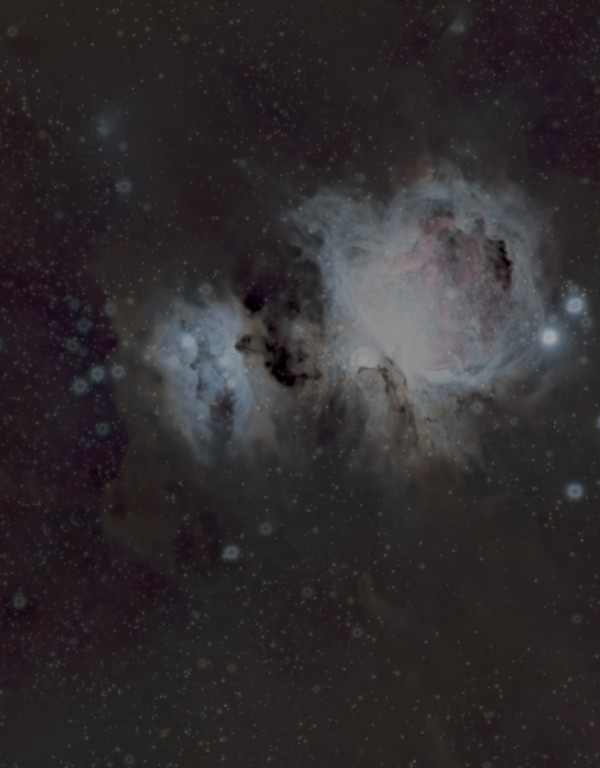
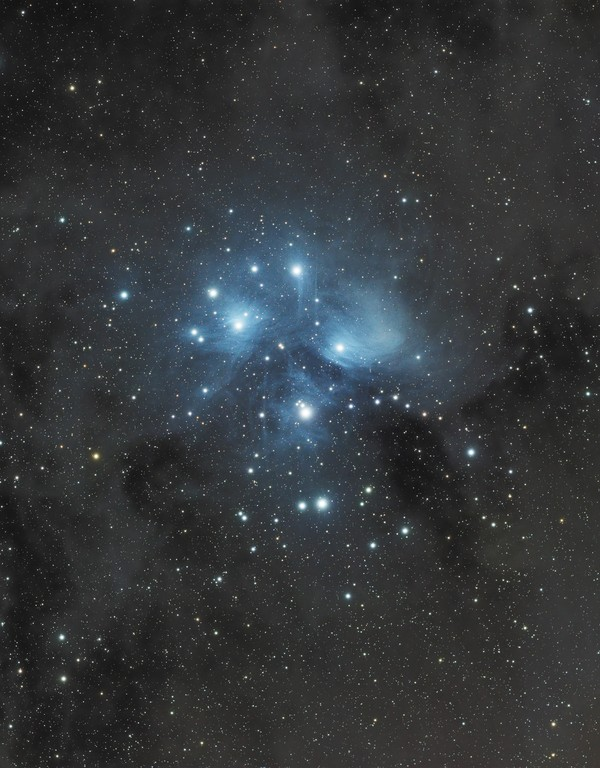
docs: rebrand README as a product, add USAGE tutorial, M45 LazyFlight card
Rewrite README.md as a standalone LazyAstroPhotoSuite product doc (drop the
port framing) and add USAGE.md — a full tool-by-tool tutorial. Surface the
website kstevica.com/laps and contact kstevica@gmail.com in the README,
the tutorial, and the launcher footer. Swap the LazyFlight launcher card
to an M45 (Pleiades) image.

diff --git a/lazystretch/gui/shell.py b/lazystretch/gui/shell.py
@@ -293,7 +293,8 @@ class LauncherPage(QWidget):
         # credit footer, bottom-right
         foot = QHBoxLayout()
         foot.addStretch(1)
-        footer = QLabel(f"LazyAstroPhotoSuite by Stevica Kuharski   ·   v{_VERSION}   ·   @kstevica")
+        footer = QLabel(f"LazyAstroPhotoSuite  v{_VERSION}   ·   kstevica.com/laps   "
+                        f"·   kstevica@gmail.com")
         footer.setStyleSheet(
             "color: rgba(196,206,228,0.60); background: transparent; font-size: 12px;")
         foot.addWidget(footer)

diff --git a/README.md b/README.md
@@ -1,114 +1,96 @@
-# LazyStretchPy
+# LazyAstroPhotoSuite (LAPS)
 
-A standalone, native-desktop **Python** port of the PixInsight **LazyStretch** script — the same
-statistics-driven, object-aware stretching pipeline, running without PixInsight. No web version, no web
-views. Ships as a pip package (primary) and a signed macOS `.app` (secondary).
+**An end-to-end astrophotography workflow in one native desktop app — from raw subs to a
+finished image, and beyond.** Stack your lights into a clean master, stretch it automatically
+with an object-aware pipeline, hand-finish it in a Lightroom-style darkroom, turn the still
+into a 3-D fly-through video, and process Sun & Moon lucky-imaging bursts — all offline, no
+subscriptions.
 
-> **Status:** P0–P5 complete — headless numerical core, image I/O, target identification, the full
-> **AAA-free pipeline** (incl. masked step variants), a native PySide6 desktop GUI, **and external-tool
-> integration** (StarNet, GraXpert, classical deconvolution; SPCC-lite scaffolded). Runs end-to-end on real
-> masters via CLI *and* GUI, using the wall tools when installed and degrading gracefully when not.
-> **Synced to PI v1.4.1** — the full **P7 catch-up is done** (Chroma NR, dark-lane gradient, Remove stars,
-> `starsAdj`, dehaze-gradient, curated recipes, **Deepen second-pass**, and the **Advisor / Analyze-Frame**),
-> all wired into the pipeline/CLI/GUI, adversarially verified, and tested (117 passing). The Python pipeline
-> now tracks v1.4.1 feature parity. **P1 (golden calibration) is underway** — a harness (`calibration/`)
-> compares the port against PixInsight's reference renders; first fix: the **HDR core** now reveals nebula-core
-> structure (M42 Trapezium) instead of flattening it. Remaining: more P1 steps (saturation/LHE/noise),
-> **SPCC-lite**, **P6** packaging. See **[PLAN.md](PLAN.md)**.
+- **Website:** [kstevica.com/laps](https://kstevica.com/laps)
+- **Contact:** kstevica@gmail.com
+- Native **macOS** and **Windows** apps
 
-## Quick start (dev)
+---
+
+## The suite
+
+LAPS is a launcher that frames the whole pipeline — **Build the master → Process the image**,
+with **Sun & Moon** and **Fly-through** alongside:
+
+| Tool | What it does |
+|------|--------------|
+| **LazyStack** | Calibrate, register and integrate a folder of subs into a clean master (edge-crop, coverage map, per-pixel noise/SNR map, meteor detection). |
+| **LazyStretch** | Automated, statistics-driven, **object-aware** stretching + finishing for deep-sky masters — auto-classifies the target, picks sensible defaults, and keeps every value live and adjustable. |
+| **LazyDevelop** | Hand-finish a stretched master: curves, levels, colour, selective colour, wavelet clarity, HDR, crop (drag to refine), deconvolution, star reduction, **star diffraction spikes**, and one-click XTerminator (BlurX / StarX / NoiseX) with graceful open-source fallbacks. |
+| **LazyFlight** | Turn a finished still into a faithful 3-D **fly-through video** — parallax + volumetric glow, stars that fly toward the camera, per-star spike/streak control, up to 3840-px and 150 Mbps. |
+| **LazyMoonSun** | Lucky-imaging burst stacking + finishing for the **Sun and Moon** (global + multi-point alignment, auto-classify, Sun/Moon presets). |
+
+Everything is designed around one idea: **get you to a great result with minimal effort**,
+while keeping every knob within reach when you want control.
+
+---
+
+## Install
+
+Download the ready-to-run app from **[kstevica.com/laps](https://kstevica.com/laps)**:
+
+- **macOS** — `LazyAstroPhotoSuite.app` (unzip, drag to Applications, open).
+- **Windows** — `LazyAstroPhotoSuite.exe` (unzip the folder, run the `.exe`).
+
+No Python or dependencies to install — the app is self-contained.
+
+> New to it? Start with the **[Usage & Tutorial guide](USAGE.md)**.
+
+---
+
+## Optional: external AI tools
+
+LAPS works fully on its own with built-in, portable algorithms. If you already use any of
+these, LAPS **auto-detects** them and prefers them; otherwise it degrades gracefully:
+
+| Tool | Used for | How LAPS finds it |
+|------|----------|-------------------|
+| **RC-Astro CLI** (`rc-astro`) | BlurXTerminator, StarXTerminator, NoiseXTerminator | on `PATH`, or `LAZYSTRETCH_RCASTRO` |
+| **StarNet++ / StarNet2** | star removal / reduction | `--starnet-path`, or `LAZYSTRETCH_STARNET` |
+| **GraXpert** | background / gradient + denoise | `--graxpert-path`, or `LAZYSTRETCH_GRAXPERT` |
+| **ASTAP** | plate solving (Identify Target) | `--astap-path` |
+
+None are bundled or required. Without them, LazyDevelop's BX / NX / SX fall back to
+Richardson-Lucy deconvolution, multiscale-median denoise, and morphological star reduction.
+For video export, LAPS bundles its own **ffmpeg**, so LazyFlight works out of the box.
+
+---
+
+## Command line (optional)
+
+The stretch pipeline is also scriptable for batch work:
 
 ```bash
-python3 -m venv .venv
-.venv/bin/python -m pip install -e ".[dev,gui]"
-.venv/bin/python -m pytest -q          # 93 passing, 1 skipped (PI-telemetry placeholder)
-lazystretch-gui                        # launch the desktop app
-lazystretch --tools                    # show which external tools are detected
+# process an RGB / OSC master; class chosen automatically or with --class
+lazystretch master.fits --class galaxy --output result.tif
+
+# also save the full run log next to the result
+lazystretch master.fits --log-file run.log
 ```
 
-## External tools (optional — the "AI wall")
+Run `lazystretch --help` for the full flag list.
 
-None are bundled. LazyStretch finds them by **explicit path → env var → PATH**, and degrades gracefully
-when absent (GraXpert→MMT noise reduction, StarNet→skip, SPCC→BN+CC).
+---
 
-| Tool | Provides | Point LazyStretch at it |
-|---|---|---|
-| **StarNet++ / StarNet2** | star reduction, star-protected saturation | `--starnet-path /path/to/starnet++` or `export LAZYSTRETCH_STARNET=…` |
-| **GraXpert** | noise reduction, background/gradient (GC) | `--graxpert-path /path/to/graxpert` or `export LAZYSTRETCH_GRAXPERT=…` |
-| **ASTAP** | plate solving (`--identify`) | `--astap-path /path/to/astap` |
-| classical **Richardson–Lucy** | weak BlurX substitute (no install) | `--deconv` (off by default) |
-| **SPCC-lite** | Gaia color calibration | `pip install ".[spcc]"` — scaffolded; currently defers to BN+CC |
-
-### CLI — run the pipeline on a master
+## Build from source (developers)
 
 ```bash
-# RGB / OSC master, class chosen manually
-lazystretch master.fits --class galaxy -o out.tif
-
-# auto-identify the target (existing WCS, or ASTAP if installed), then process
-lazystretch osc.fits --identify -o out.tif
-
-# mono narrowband SHO/HOO/HOS combine from three masters
-lazystretch --ha Ha.fits --oiii OIII.fits --sii SII.fits --palette "SHO (Hubble)" \
-            --class emission -o sho.tif
-
-# fast preview (the deterministic subset — AI wall off), tweak the dials
-lazystretch master.fits --class emission --preview --sat 0.1 --bright 0.03 -o preview.png
+python -m pip install -e ".[gui,video,bg,tools]"
+python -m lazystretch.gui.app          # launch the suite
+python -m pytest -q                    # run the test suite
 ```
 
-### Library — headless core
+Packaging the standalone macOS `.app` / Windows `.exe` is documented in
+[`build/README.md`](build/README.md) (PyInstaller + a GitHub Actions Windows workflow).
 
-```python
-import numpy as np
-from lazystretch import get_data, resolve_effective, apply_auto_stretch
-from lazystretch.io import load_image, save_image
-from lazystretch.objects import Parameters
-from lazystretch.pipeline.runcore import run_pipeline
+---
 
-img = load_image("master.fits").data                 # float [0,1], (H,W) or (H,W,3)
-result = run_pipeline(img, Parameters.for_object("galaxy"), preview=True)
-save_image("out.tif", result.image)
-```
+## About
 
-## What runs (the AAA-free "Preview" pipeline)
-
-Crop → background/gradient (ABE poly / GC-fallback) → colour calibration (BN+CC) → auto-stretch →
-SCNR → HDR core → background level (+ adaptive floor) → contrast → saturation → cast/emission/dehaze →
-gradient cleanup → local contrast. The four **wall** steps (BlurX / NoiseX / StarX / SPCC) are
-feature-detected and skipped when absent (NoiseX falls back to the portable MMT); they are integrated in
-P5. Masked step variants are a P3 follow-up (they fall back to the global variant with a logged note).
-
-## Layout
-
-```
-LazyStretchPy/
-├── PLAN.md                     ← the architecture & porting plan (start here)
-├── README.md                   ← this file
-└── reference/
-    └── pixinsight/             ← READ-ONLY source of truth (do not edit)
-        ├── LazyStretch.js      ← PI LazyStretch v1.2.1, 3542 lines
-        ├── README.md  PLAN.md  ← PI-side docs, copied verbatim
-        └── SOURCE.md           ← exact version + SHA-1 + isolation date
-```
-
-## The core idea
-
-The Python port keeps the **PixInsight `.js` as the source of truth** and is engineered to track it with
-minimal effort as it keeps evolving. The seam is drawn along *change frequency*, not features:
-
-- **Tunable numbers** (class profiles, thresholds, slider gains, palettes) live in **one shared JSON** that
-  both the `.js` and Python read — so a number tweak propagates with zero re-porting.
-- A **parity map** links each PI symbol to its Python module + the PI SHA it was last synced against.
-- A **golden/regression harness** diffs Python against telemetry exported from PI on the sample images.
-- A **per-release update checklist** turns "PI changed" into a mechanical procedure.
-
-See PLAN.md §9 for the full sync strategy and §10 for the phased roadmap.
-
-## Updating to a new PI version (short form)
-
-1. Drop the new `LazyStretch.js` into `reference/pixinsight/` and update `SOURCE.md` (version + SHA-1).
-2. `git diff` the `.js`; classify each hunk **DATA-ONLY** vs **STRUCTURAL**.
-3. DATA-ONLY → edit the shared JSON (no Python change). STRUCTURAL → edit the mapped Python module.
-4. Regenerate golden sidecars from PI, run `pytest tests/golden`, bump the synced SHA.
-
-(Full 12-step checklist in PLAN.md §9.4.)
+LazyAstroPhotoSuite is built by **Stevica Kuharski**.
+Questions, bugs, feature ideas → **kstevica@gmail.com** · **[kstevica.com/laps](https://kstevica.com/laps)**

diff --git a/USAGE.md b/USAGE.md
@@ -1,0 +1,150 @@
+# LazyAstroPhotoSuite — Usage & Tutorial
+
+A friendly walkthrough of the whole workflow, tool by tool. If you just want to get a
+finished image quickly: **LazyStack → LazyStretch → LazyDevelop**. Everything runs offline.
+
+- Website: [kstevica.com/laps](https://kstevica.com/laps) · Contact: **kstevica@gmail.com**
+
+---
+
+## Getting started
+
+Open **LazyAstroPhotoSuite**. You land on the **launcher**, which lays out the workflow as a
+pipeline:
+
+```
+Build the master           Process the image
+  LazyStack        →   LazyStretch → LazyDevelop → LazyFlight
+  LazyMoonSun  (Sun & Moon, alongside)
+```
+
+Click any card to open that tool. The **Tools ▸ Home** menu (or ⇧⌘H) always brings you back
+to the launcher.
+
+---
+
+## 1 · LazyStack — build a clean master
+
+Turn a folder of light subs into a single integrated master.
+
+1. Open **LazyStack**.
+2. **Pick your subs** (a folder of calibrated or raw lights). Add flats/darks/bias if you have
+   them.
+3. LazyStack **calibrates, registers and integrates** them, rejecting outliers (satellite
+   trails, cosmic rays). It also:
+   - **edge-crops** the stack border where frames don't all overlap,
+   - builds a **coverage map** (how many frames support each pixel),
+   - measures a **per-pixel noise / SNR map** (used later to protect faint signal),
+   - detects **meteors** as rejected transients (you can composite them back in later).
+4. **Save the master** (FITS/TIFF). That file is your input to LazyStretch.
+
+Tip: the noise/SNR and coverage companions travel with the master and make the stretch smarter
+about where to push detail vs. protect the background.
+
+---
+
+## 2 · LazyStretch — automatic, object-aware stretch
+
+The heart of the suite: a statistics-driven stretch that adapts to *what* you're imaging.
+
+1. Open **LazyStretch** → **Open master…** and pick your integrated master.
+2. **Identify the target** (optional): click **Identify Target** to plate-solve + name the
+   object, or just choose an **Object class** (galaxy, emission, reflection, cluster, Milky Way,
+   …). The class sets sensible defaults.
+3. Click **Preview** to see the auto-stretch on a fast, deterministic pass.
+4. Fine-tune on the **Setup / Adjust / Process** tabs — saturation, deepen, HDR core, black
+   point, dehaze, star handling, and more. Every value is live; the **Process** tab shows the
+   full computed pipeline and lets you pin overrides.
+5. Click **Execute** for the full-resolution result, then **Save Result…**.
+6. **Save log…** writes the whole run to a text file (or right-click the log). You can also
+   save a **recipe** and re-apply the same settings to another master.
+
+---
+
+## 3 · LazyDevelop — the darkroom
+
+Hand-finish a stretched master, Lightroom-style, with full history and masks.
+
+1. Open **LazyDevelop** → open a stretched image.
+2. Pick a tool from the **palette** on the left, grouped by category:
+   - **Geometry** — Crop, Edge crop, Rotate/flip. *(Crop: draw the box, then drag its
+     edges/corners to resize or drag inside to reposition.)*
+   - **Tone** — Curves, Levels, S-curve, Local contrast, HDR core, Highlight roll-off, Deepen.
+   - **Color** — Saturation, White balance, SCNR, Chroma NR, Background neutralize, Reduce cast,
+     Enhance emission.
+   - **Detail** — Mid-scale structure, Noise reduction, Reduce stars, Deconvolution, Halo Tamer.
+   - **XTerminator** — **BlurX / NoiseX / StarX**: uses the real RC-Astro tools if installed,
+     otherwise open-source equivalents.
+   - **Background** — Background extraction, Gradient cleanup, Dehaze, De-veil.
+   - **Studio** — Selective Color, Wavelet clarity, and **Star spikes**.
+3. Adjust the tool's controls (they preview live), optionally gate it through a **mask**
+   (luminance / highlights / star), then click **Apply** to add it as a history step.
+4. Use **Undo/Redo**, click any history step to edit it in place, and **Save recipe** to reuse
+   the whole edit stack.
+
+### Star spikes (Studio)
+
+Add diffraction spikes to stars:
+
+1. Open **Star spikes** — it **auto-detects** the brightest stars and marks them.
+2. **Click a star** to select it, **click empty canvas** to add one, **drag** to move,
+   **right-click** to remove.
+3. Set the number of spikes (3–32), rotation, thickness, intensity. The **Length** slider sets
+   the *selected* star's spike length (per star).
+4. Optional looks: **Chromatic fringe** (refractor-style colour toward the tips), **Arm-length
+   jitter**, and **Per-arm colour**. Click **Apply** to composite.
+
+---
+
+## 4 · LazyFlight — 3-D fly-through video
+
+Turn a finished still into a gentle fly-through.
+
+1. Open **LazyFlight** → open your finished image.
+2. Set the **pan points** (up to 5) the camera eases through, each with its own **zoom** and
+   **rotation** (Z / X / Y). Drag the numbered points on the image; the background moves within
+   the viewport as stars fly toward the camera.
+3. Choose **spikes/streaks**, star sizes, orientation (landscape/portrait), aspect and duration
+   (up to 120 s).
+4. Pick a **quality preset** or a manual **bitrate** (up to 150 Mbps) and **Render video**.
+5. **Save recipe** to reuse a camera move on another image.
+
+*Note: zoom **in** streams the stars toward you; zoom **out** makes them recede.*
+
+---
+
+## 5 · LazyMoonSun — Sun & Moon
+
+Lucky-imaging burst stacking + finishing for the Sun and Moon.
+
+1. Open **LazyMoonSun** → pick a **burst folder** (a run of frames).
+2. Choose a **Sun**, **Moon**, or **Neutral** base preset (it can also auto-classify).
+3. **Stack** — global + multi-point alignment picks and combines the sharpest detail, then
+   finishes it. Save the result.
+
+---
+
+## Optional: connect your AI tools
+
+LAPS auto-detects these if present and prefers them; otherwise it uses built-in fallbacks:
+
+- **RC-Astro CLI** (`rc-astro`) → BlurX / StarX / NoiseX. Put `rc-astro` on your `PATH`, or set
+  `LAZYSTRETCH_RCASTRO=/path/to/rc-astro`.
+- **StarNet++ / StarNet2**, **GraXpert**, **ASTAP** — see the README table for env vars / flags.
+
+Nothing is required — the suite is complete on its own, and bundles its own ffmpeg for video.
+
+---
+
+## Handy extras
+
+- **Save log…** on every tool writes the run/edit log to a text file (or right-click the log).
+- **Recipes** save a tool's settings so you can re-apply them to the next image.
+- The macOS app menu and window titles show **LazyAstroPhotoSuite**; each tool keeps its own
+  name so you always know where you are.
+
+---
+
+## Questions & feedback
+
+Found a bug, or have an idea? → **kstevica@gmail.com** · **[kstevica.com/laps](https://kstevica.com/laps)**

diff --git a/CHANGELOG.md b/CHANGELOG.md
@@ -6,6 +6,12 @@ the project is pre-1.0 (`0.1.0`), so everything below is under `[Unreleased]` un
 
 ## [Unreleased]
 
+### Docs & branding
+- **README rewritten** as a standalone-product doc (LazyAstroPhotoSuite) and a new **USAGE.md**
+  tutorial covering every tool. The website (**kstevica.com/laps**) and contact
+  (**kstevica@gmail.com**) appear in the README, the tutorial, and the launcher footer.
+- **LazyFlight launcher card** now uses an M45 (Pleiades) image.
+
 ### Packaging
 - **Standalone macOS app build** (`build/build_macos.sh`, PyInstaller) — compiles the whole
   suite into a self-contained `LazyAstroPhotoSuite.app` (arm64) that needs no Python. The
